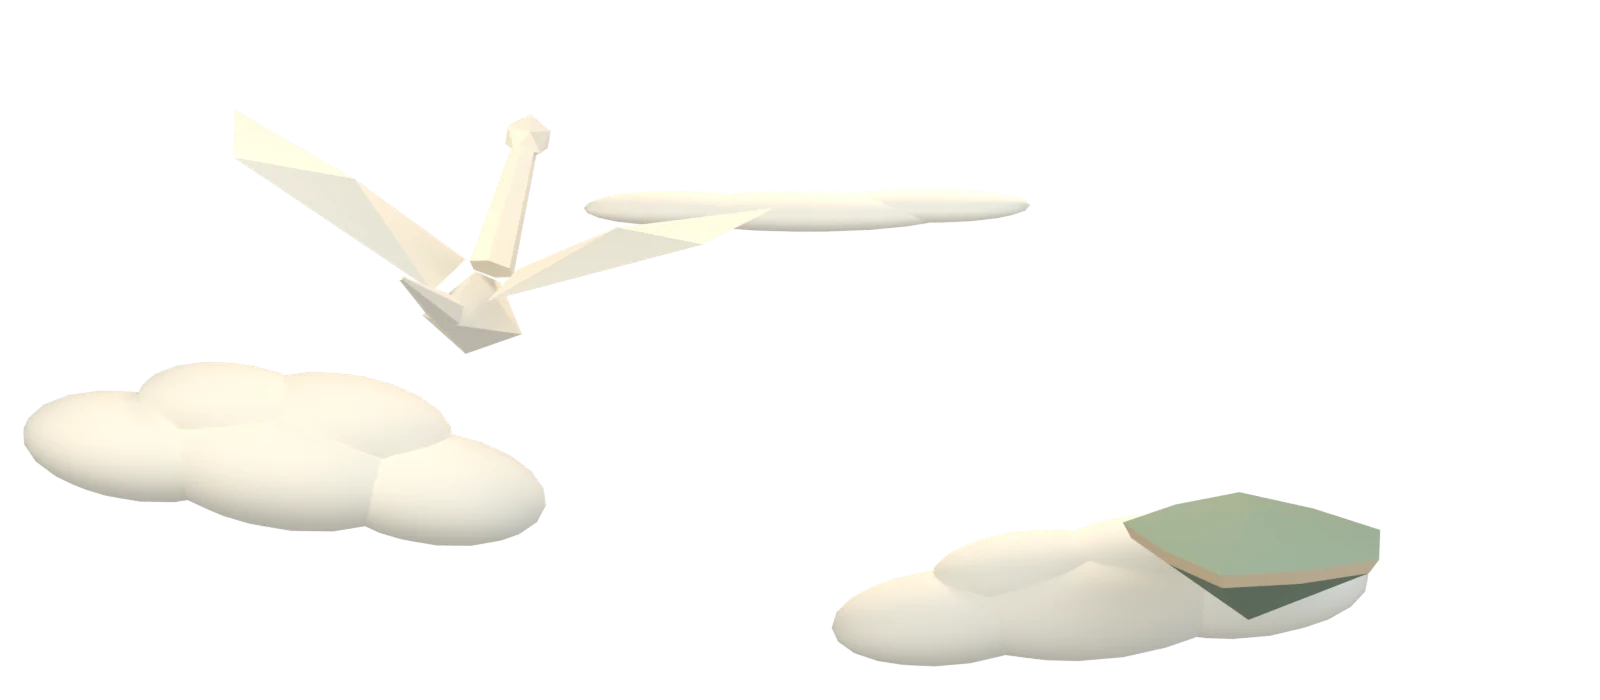
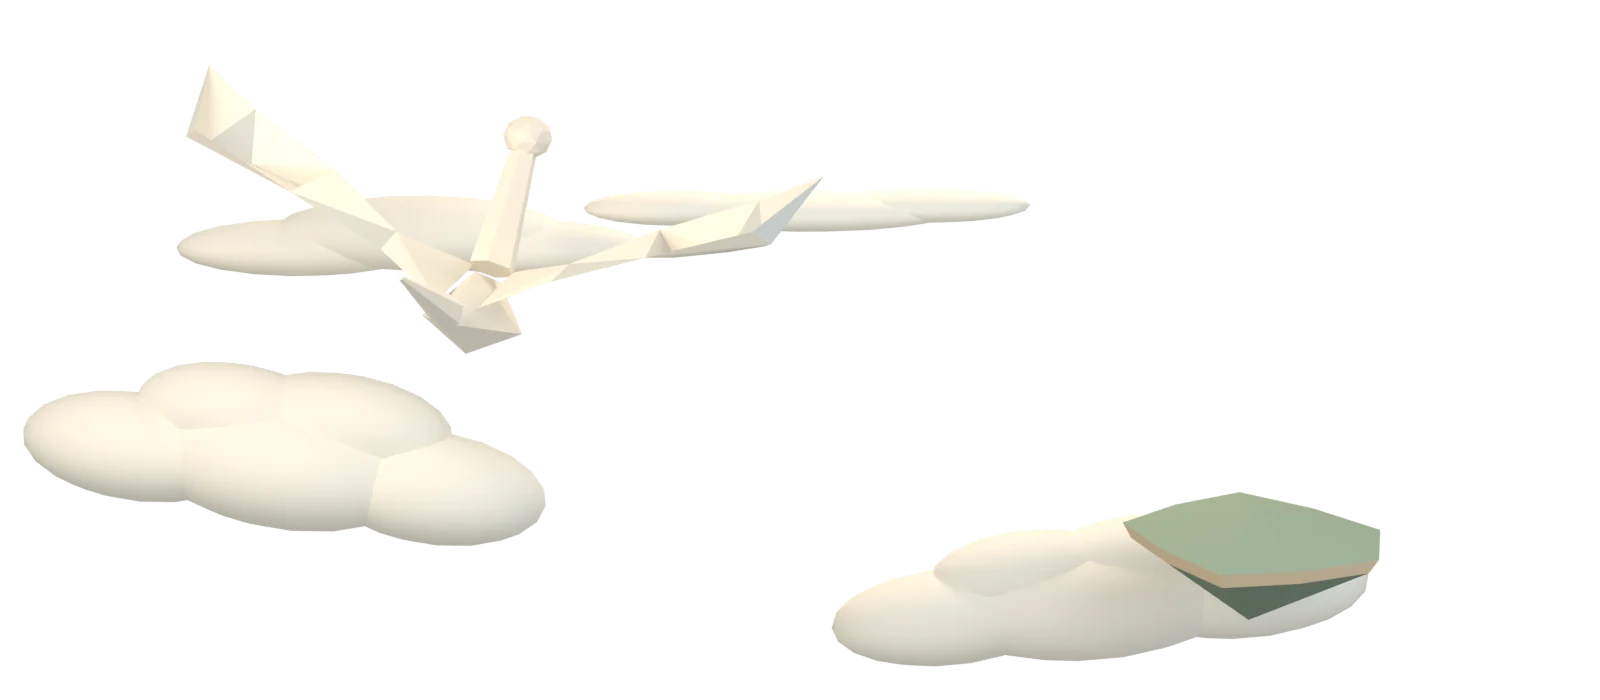
更新博客 2026-11-09 20:12

diff --git a/tools/blender/build_assets.py b/tools/blender/build_assets.py
@@ -326,7 +326,7 @@ def floating_island(name, loc, radius, depth, mats, rot=(0, 0, 0)):
 
 
 def build_hero(mats):
-    # —— 纸鹤：八面体机身 + 折面双翼 + 锥形长颈 / 喙 / 尾 ——
+    # —— 优雅的展翼鹤：长颈、尖喙、分层羽片和带折痕的扇形双翼 ——
     P = mats["paper"]
     # 用暖白、珍珠灰和淡金的细微差异强调折纸折面
     wing_light = make_mat("WingLight", "#FFF7E8", 0.68)
@@ -340,18 +340,19 @@ def build_hero(mats):
 
     # 左翼：四个三角面构成带折痕的斜上掠翼
     wing_v = [
-        (-0.16, 0.34, 0.26), (-0.16, -0.30, 0.22), (-0.78, 0.02, 0.70),
-        (-1.62, 0.26, 0.92), (-1.35, -0.40, 0.80),
+        (-0.12,.40,.22),(-.12,-.34,.18),(-.52,.08,.42),(-.98,.27,.67),
+        (-1.52,.34,.93),(-1.86,.43,1.12),(-1.60,-.37,.91),(-1.03,-.34,.65),(-.50,-.25,.39),
+        (-1.10,.20,.54),(-1.42,.08,.66),(-1.64,-.08,.77),(-1.70,-.24,.83)
     ]
-    wing_f = [(0, 1, 2), (0, 2, 3), (1, 4, 2), (2, 4, 3)]
-    wing_l = add_mesh("CraneWingL", wing_v, wing_f, [P, wing_light, wing_shadow], [0, 1, 2, 1])
+    wing_f = [(0,2,1),(2,8,1),(2,7,8),(2,3,7),(3,9,7),(3,10,9),(3,4,10),(4,11,10),(4,5,11),(5,12,11),(5,6,12),(6,7,12),(7,9,12),(9,10,12),(10,11,12)]
+    wing_l = add_mesh("CraneWingL", wing_v, wing_f, [P, wing_light, wing_shadow], [0,1,2,1,2,0,1,2,1,0,2,1,0,2,1])
     wing_r = add_mesh("CraneWingR", [(-x, y, z) for (x, y, z) in wing_v],
-                      [(0, 2, 1), (0, 3, 2), (1, 2, 4), (2, 3, 4)], [P, wing_light, wing_shadow], [0, 1, 2, 1])
+                      [tuple(reversed(f)) for f in wing_f], [P, wing_light, wing_shadow], [0,1,2,1,2,0,1,2,1,0,2,1,0,2,1])
 
     neck = add_cone("CraneNeck", (0.0, 0.60, 0.58), 0.14, 0.075, 0.86, P,
                     rot=(math.radians(-35), 0, 0), verts=6)
-    head = add_ico("CraneHead", (0.0, 0.86, 0.94), (0.15, 0.16, 0.14), P, subdiv=1)
-    beak = add_cone("CraneBeak", (0.0, 1.05, 0.92), 0.055, 0.004, 0.28, mats["sage_dark"],
+    head = add_ico("CraneHead", (0.0, 0.86, 0.94), (0.145, 0.17, 0.13), P, subdiv=2)
+    beak = add_cone("CraneBeak", (0.0, 1.08, 0.93), 0.045, 0.002, 0.34, mats["clay"],
                     rot=(math.radians(-90), 0, 0), verts=6)
     tail = add_cone("CraneTail", (0.0, -1.02, 0.40), 0.10, 0.012, 1.05, P,
                     rot=(math.radians(66), 0, 0), verts=6)
@@ -375,12 +376,13 @@ def build_hero(mats):
     # 远景薄云带，降低画面空旷感；体积克制以保持标题可读
     cloud_c = cloud_cluster("CloudC", (0.05, 2.8, 1.35),
                             [(0,0,0,1.05,.30,.14),(.86,.02,.04,.72,.25,.12),(-.92,.01,.02,.66,.24,.12)], mats)
+    cloud_d = cloud_cluster("CloudD", (-3.4,2.15,1.20), [(-.8,0,0,.85,.32,.19),(0,0,.10,1.0,.38,.25),(.75,0,0,.8,.3,.18)], mats)
     # —— 浮空地形 ——
     island = floating_island("Island", (2.85, 0.55, -0.35), 0.82, 0.58, mats, (0.05, 0, 0.1))
     shard1 = floating_island("ShardA", (-0.65, 0.30, -1.55), 0.24, 0.20, mats, (0.2, 0.3, 0.4))
     shard2 = floating_island("ShardB", (1.35, 0.40, -2.10), 0.15, 0.13, mats, (0.1, 0.2, 0.6))
 
-    geoms = crane_parts + [cloud_a, cloud_b, cloud_c, island, shard1, shard2]
+    geoms = crane_parts + [cloud_a, cloud_b, cloud_c, cloud_d, island, shard1, shard2]
 
     world_ambient(0.55, "#FBFAF4")
     add_area("Key", (-4.5, -5.0, 5.0), 420, 5.0, (1.0, 0.91, 0.78), (-1.2, 0.2, 0.9))
